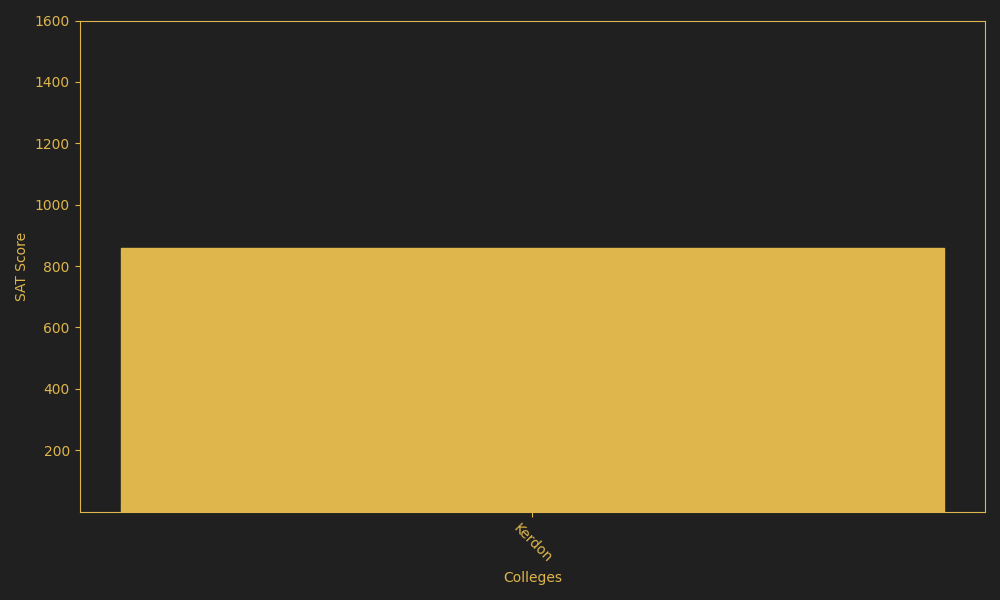
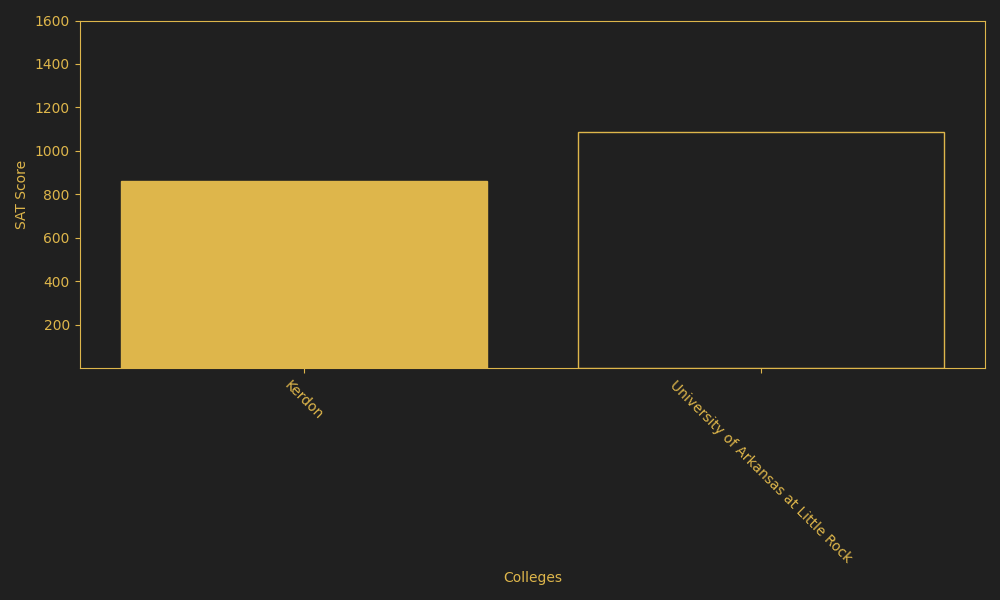
10045 164 highlight invalid colleges on analytics college list 52/255 (#80)
* Revert "responsiveness remaster on hp (#60)"

This reverts commit 3b47168b7564f888bca23a8949e2a376c67853ba.

* Yuhh

* Complete graph generation
-And embedding the generated graph into flask applictaion

* Graph generation and display done!

* temp

* merge test

* merge test

* Graph generation

* Horray yipee joy!

diff --git a/static/styles/style.css b/static/styles/style.css
@@ -250,6 +250,10 @@ hr {
     color: #DEB64B;
 }
 
+.custom-border {
+    border-color: #DEB64B;
+}
+
 /* .underline {
     text-decoration: underline;
     text-decoration-color: #202020;

diff --git a/main.py b/main.py
@@ -252,21 +252,24 @@ def analytics_page():
 
     if comparing_catagory==1:
         compare_sat=True
+        comparing="average_sat"
         
     elif comparing_catagory==2:
         compare_tuition=True
+        comparing="tuition"
         
     elif comparing_catagory==3:
         compare_distance=True
+        comparing="tuition_budget"
 
     if compare_sat==True:
-        comparing="Student SAT Score vs College SAT Admission Requirements"
+        title="Student SAT Score vs College SAT Admission Requirements"
         
     elif compare_tuition==True:
-        comparing="Student Tuition Budget vs Average College Tuition"
+        title="Student Tuition Budget vs Average College Tuition"
 
     elif compare_distance==True:
-        comparing="Distance between Colleges and User's Zip Code"
+        title="Distance between Colleges and User's Zip Code"
         
 
 
@@ -375,10 +378,13 @@ def analytics_page():
 
     assert data
     
-    # for entry in data:
+    if empty==0:
+        empty=True
+    else:
+        empty=False
         
 
-    return render_template('analytics.html.jinja', colleges=colleges, empty=empty)
+    return render_template('analytics.html.jinja', colleges=colleges, empty=empty, comparing=comparing)
 
 @app.route('/plot.png')
 def plot():
